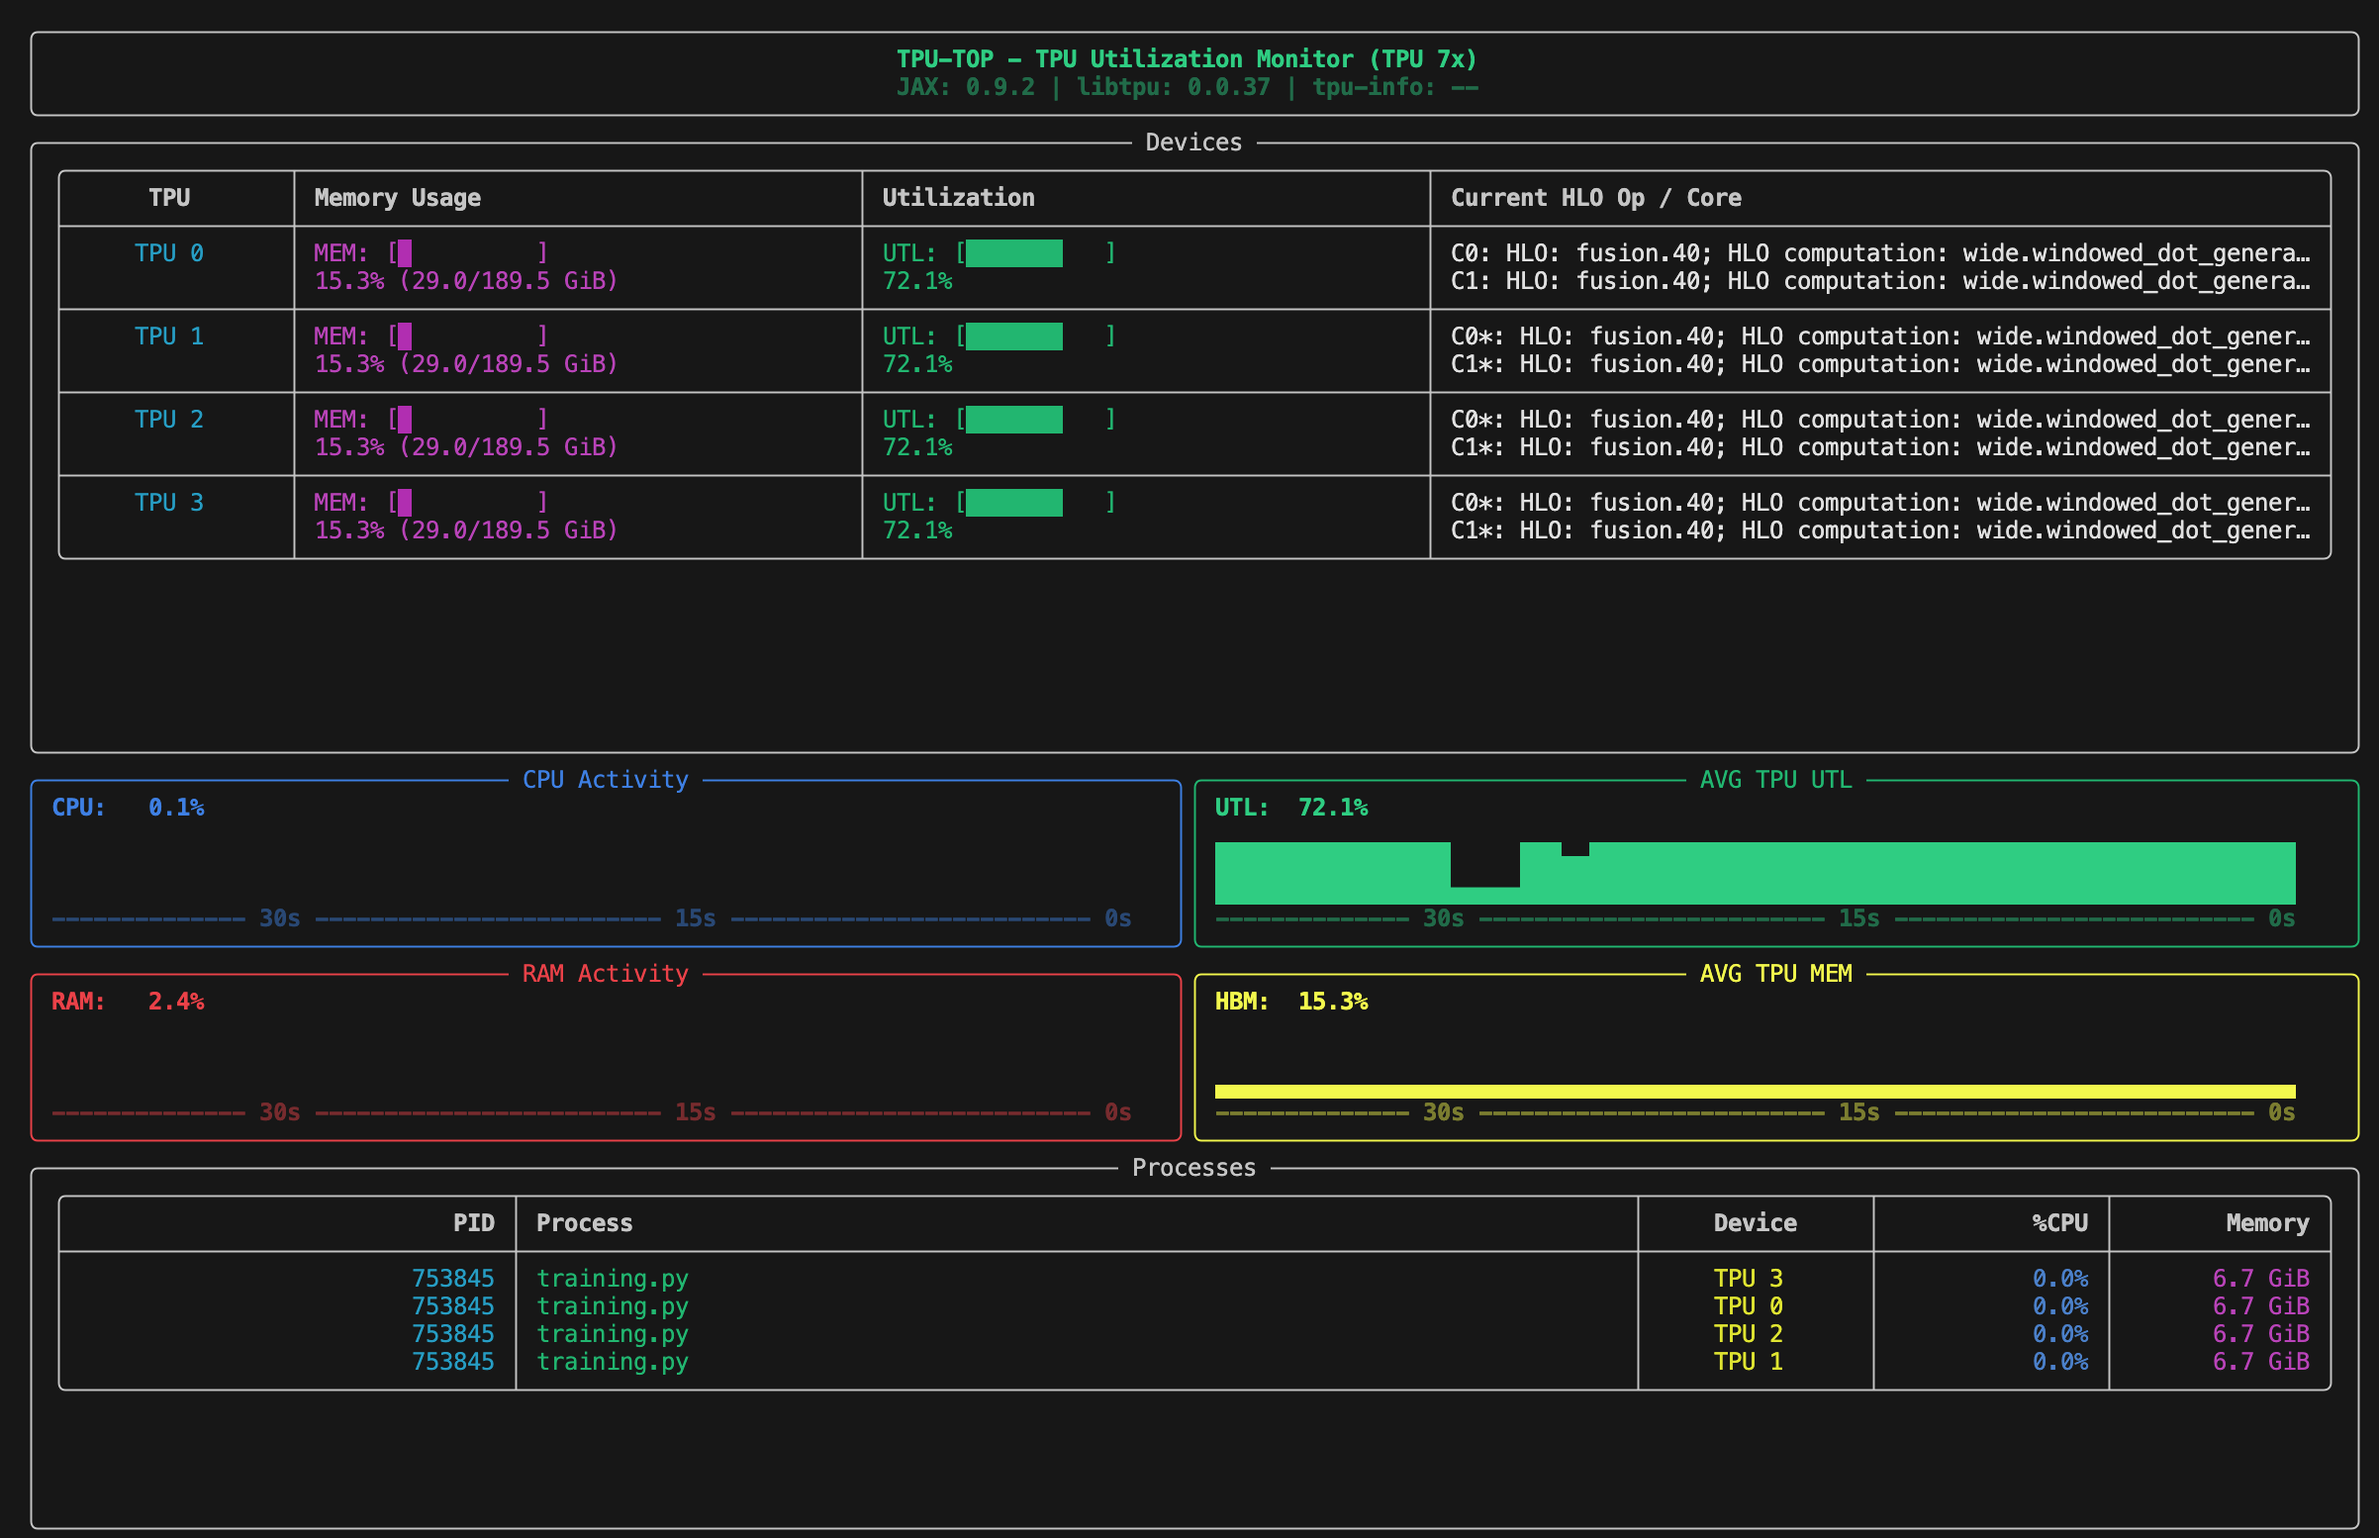
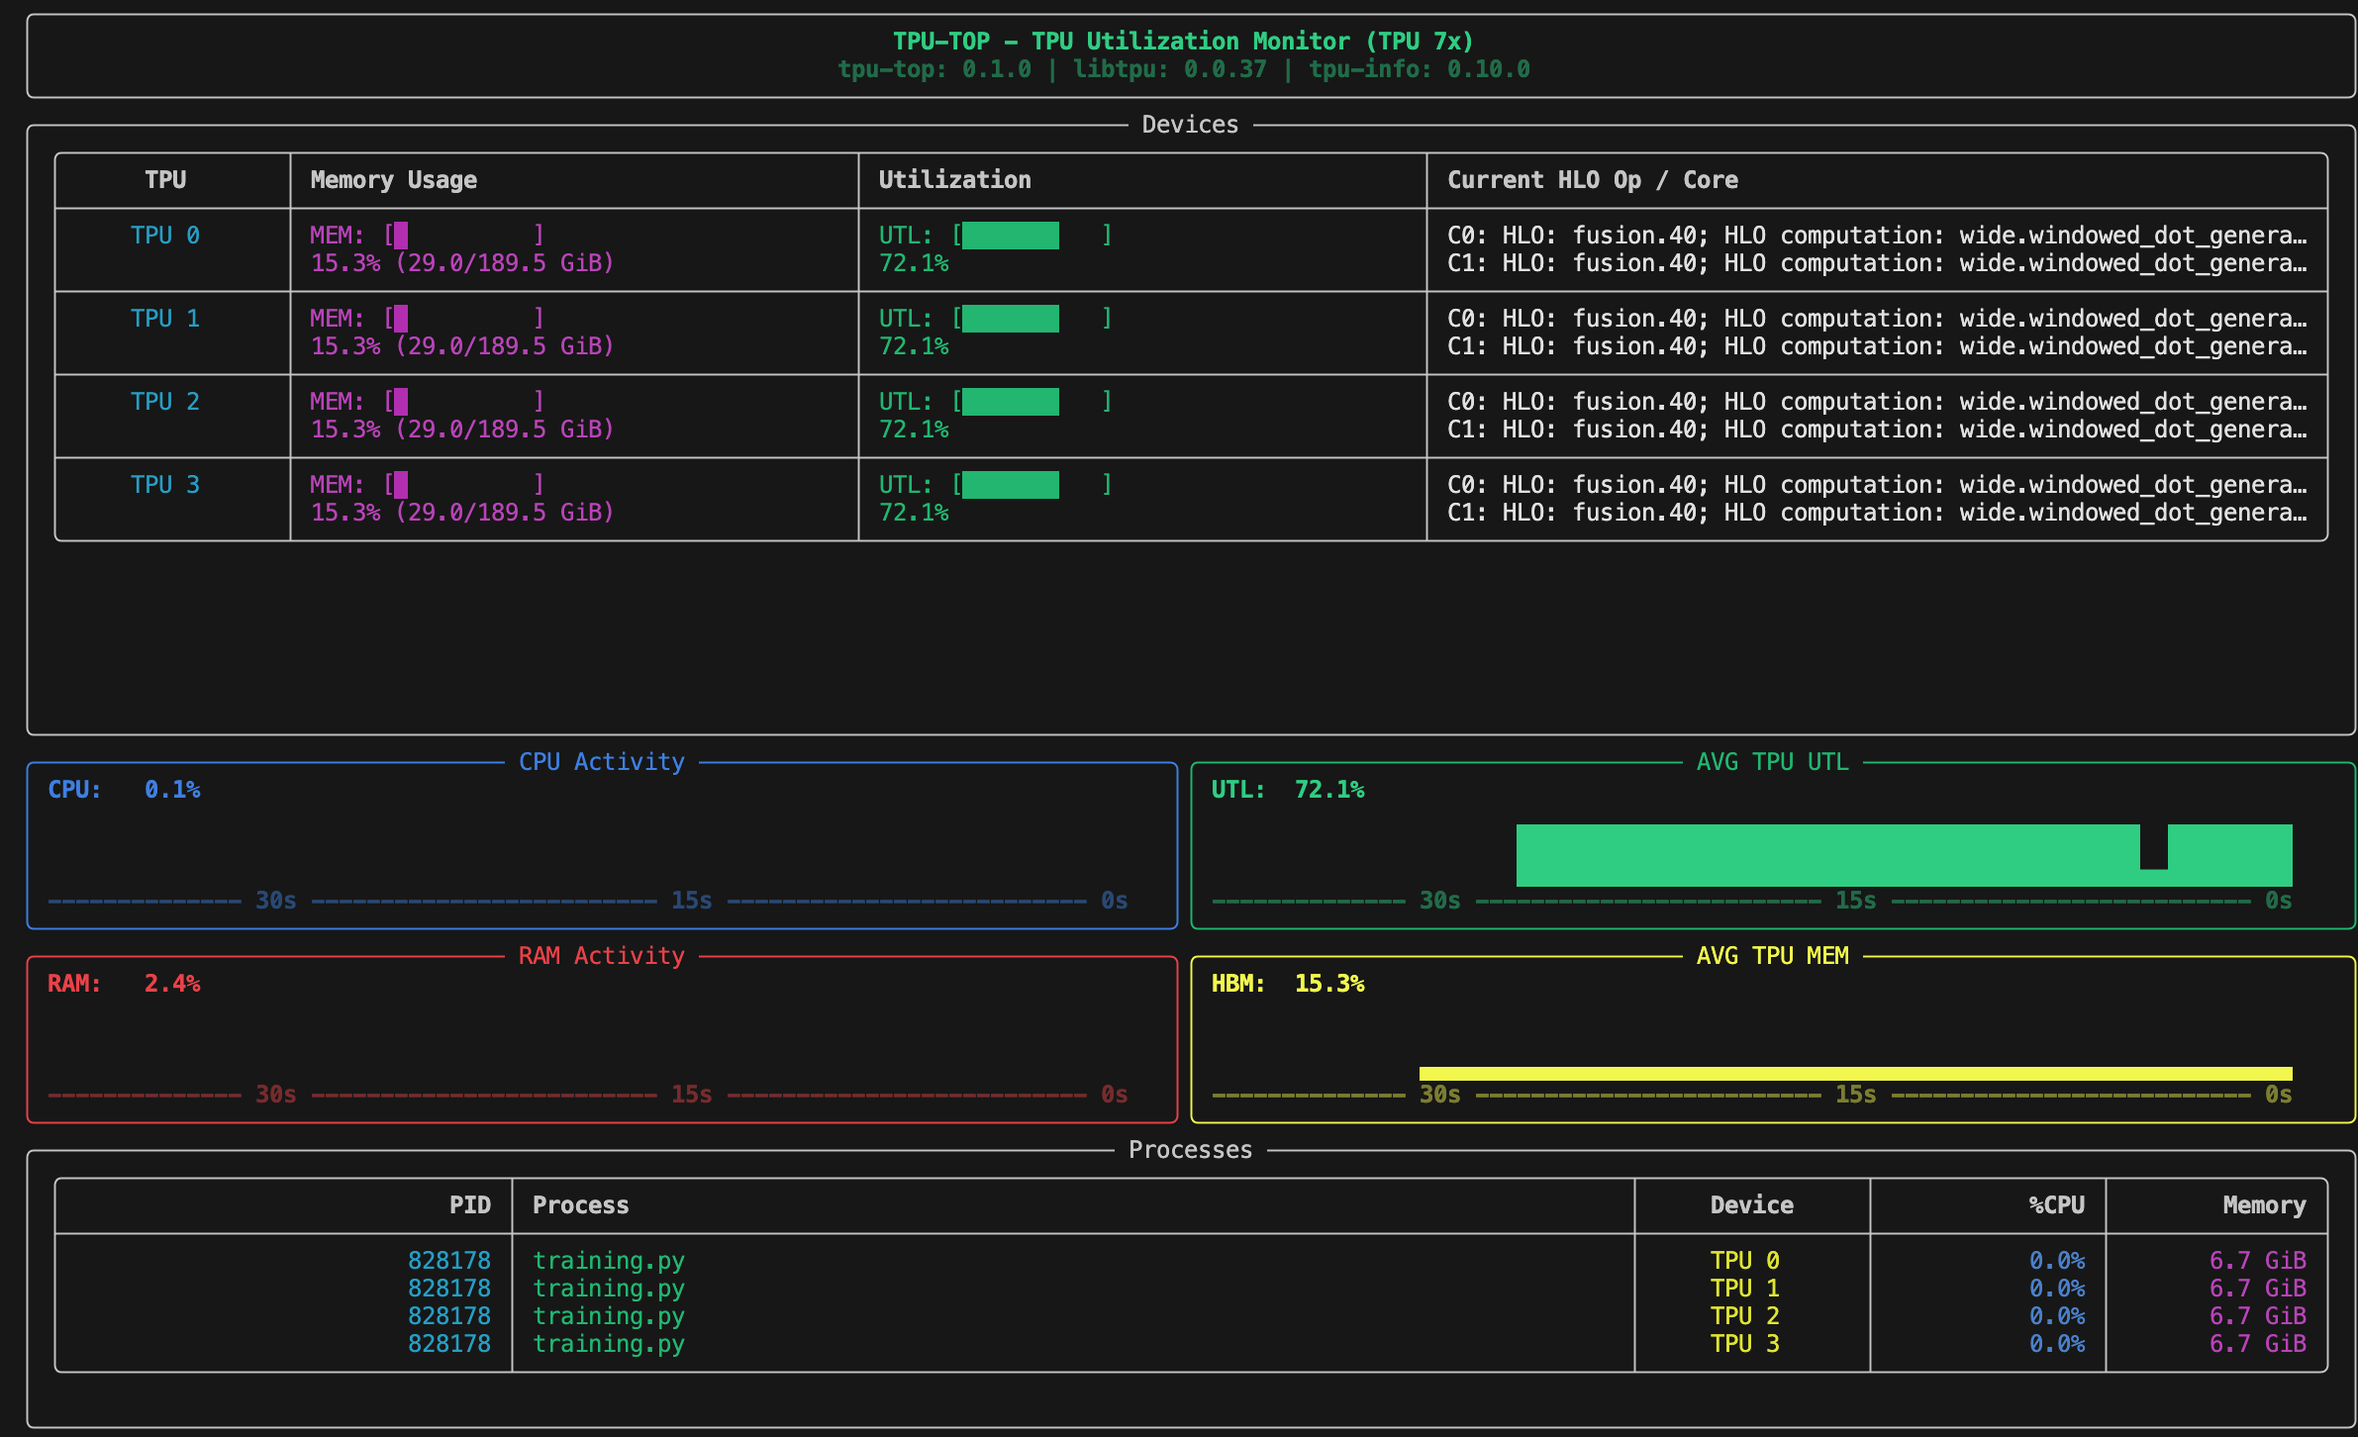
added the contributing and update the readme file

Changed region(s): [[0.0, 0.0, 1.0, 1.0]]

diff --git a/src/tpu_top/tputop.py b/src/tpu_top/tputop.py
@@ -565,7 +565,7 @@ def main():
             tpu_procs = [p for p in processes if "TPU" in p["device"]]
             cpu_procs = [p for p in processes if p["device"] == "CPU"]
             
-            tpu_procs.sort(key=lambda x: x["memory"], reverse=True)
+            tpu_procs.sort(key=lambda x: (int(x["device"].split()[1]), -x["memory"]))
             cpu_procs.sort(key=lambda x: x["memory"], reverse=True)
             
             processes = tpu_procs + cpu_procs

diff --git a/README.md b/README.md
@@ -2,30 +2,41 @@
 
 A modern, terminal-based monitoring dashboard for Google Cloud TPUs, designed to give you real-time visibility into your machine's performance.
 
+[![PyPI version](https://img.shields.io/pypi/v/tpu-top.svg)](https://pypi.org/project/tpu-top/)
+[GitHub Repository](https://github.com/hosseinsarshar/tpu-top) | [PyPI Project](https://pypi.org/project/tpu-top/)
+
 ## Project Overview
 
 `tpu-top` provides a visual, interactive TUI (Terminal User Interface) to monitor system and TPU resources. It is specifically tailored for high-performance computing environments like GKE (Google Kubernetes Engine) where deep learning models are trained on TPUs.
 
-![tpu-top UI](./images/image.png)
+![tpu-top UI](https://raw.githubusercontent.com/hosseinsarshar/tpu-top/main/images/image.png)
 
 ### Key Features
 
-*   **2x2 Metric Grid**: Real-time tracking of CPU, RAM, Average TPU Utilization, and Average TPU HBM (Memory).
-*   **Visual Bar Charts**: Multi-line vertical bar charts filling the display boxes to show resource usage scaling up to 100%.
-*   **Device Status Table**: Detailed per-device breakdown showing duty cycle and memory usage for each local TPU chip.
-*   **Process Monitor**: Lists active processes consuming CPU or TPU resources on the host.
+*   **Responsive Layout**: Automatically switches between 2x2 grid and 1x4 list for graphs based on terminal height.
+*   **Priority-Based Rendering**: Dynamically shrinks or drops panels (Processes panel shrinks first) to fit severe vertical constraints.
+*   **Device Status Table**: Detailed per-device breakdown showing duty cycle and memory usage. Compact 1-line layout for single-core TPUs (v6e) and multi-line for multi-core (v7).
+*   **Process Monitor**: Lists active processes, prioritized by TPU processes (sorted by TPU index) and then CPU processes (sorted by memory usage).
 *   **Google Brand Styling**: Color-coded graphs using Google's signature color palette (Blue, Red, Yellow, Green).
-*   **Version Awareness**: Displays JAX, libtpu, and tpu-info versions directly in the header alongside detected TPU generation.
+*   **Version Awareness**: Displays `tpu-top`, `libtpu`, and `tpu-info` versions directly in the header alongside detected TPU generation.
 
 ## Installation
 
-You can install `tpu-top` directly from the source directory.
+### From PyPI (Recommended)
+
+```bash
+pip install tpu-top
+```
+
+### From Source
+
+You can also install `tpu-top` directly from the source directory.
 
 ### Prerequisites
 
-Ensure you have Python 3.8+ and access to a Cloud TPU environment. The tool relies on `tpu-info` to communicate with the TPU driver.
+Ensure you have Python 3.12+ and access to a Cloud TPU environment. The tool relies on `tpu-info` to communicate with the TPU driver.
 
-### Standard Install
+### Standard Source Install
 
 Navigate to the project root directory and run:
 

diff --git a/CONTRIBUTING.md b/CONTRIBUTING.md
@@ -1,0 +1,65 @@
+# Contributing to TPU-TOP
+
+Thank you for your interest in contributing to `tpu-top`! This document provides guidelines and instructions for setting up your development environment and extending the project.
+
+## Development Setup
+
+1.  Clone the repository:
+    ```bash
+    git clone https://github.com/hosseinsarshar/tpu-top.git
+    cd tpu-top
+    ```
+
+2.  Install the package in editable mode:
+    ```bash
+    pip install -e .
+    ```
+    *(Note: If you are on a Google Corp machine, you may need to use specific internal instructions for installing dependencies if standard pip fails).*
+
+## Code Structure
+
+The project follows a standard PyPI layout:
+*   `src/tpu_top/tputop.py`: This is the core of the application. It contains the TUI layout definition (using `rich`), the metrics gathering loop, and the rendering logic.
+*   `tests/`: Contains unit tests.
+
+## Extending the Dashboard
+
+### Adding New Metrics
+If you want to add new metrics (e.g., HLO queue size or transfer latencies as discussed):
+1.  Locate the metrics gathering section in the `main()` function of `tputop.py`.
+2.  Use `tpu_info` (or fallbacks to `libtpu`) to fetch the new data.
+3.  Add a new panel in `make_layout()` or add columns to `make_device_table()`.
+4.  Pass the new data to the rendering functions.
+
+### Mock Mode
+For development on machines without access to physical TPUs, you can run in mock mode:
+```bash
+TPU_TOP_MOCK=1 tpu-top
+```
+You can extend the mock data generators (`get_mock_metrics`) in `tputop.py` to simulate the new metrics you are adding.
+
+## Running Tests
+
+To validate changes, run the unit tests:
+```bash
+python -m unittest tests/test_main.py
+```
+
+## Building and Publishing
+
+To build and push a new version to PyPI:
+
+1.  Bump the version in `pyproject.toml`.
+2.  Clean old builds: `rm -rf dist/ build/ src/tpu_top.egg-info/`
+3.  Build the package:
+    ```bash
+    python3 -m build
+    ```
+    *If you are on a Google Corp machine and see index errors, use:*
+    ```bash
+    python3 -m build --no-isolation
+    ```
+4.  Upload to PyPI:
+    ```bash
+    python3 -m twine upload dist/*
+    ```
